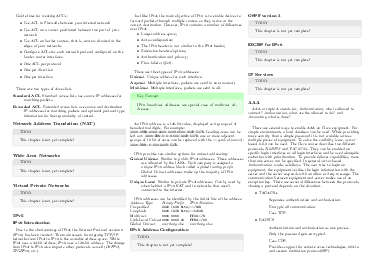
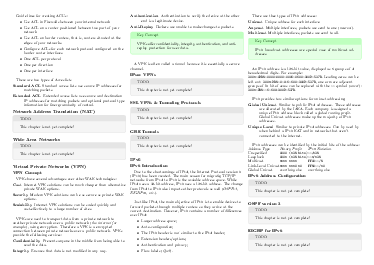
Added initial VPN chapter

diff --git a/summary.tex b/summary.tex
@@ -461,10 +461,38 @@ There are two types of Acces lists
 	This chapter is not yet complete!
 \end{textbox}
 
-\subsection{Virtual Private Networks}
-\begin{textbox}{gray}{TODO}
-	This chapter is not yet complete!
+\subsection{Virtual Private Networks (VPN)}
+\subsubsection{VPN Concept}
+\paragraph{}VPNs have several advantages over other WAN technologies:
+\begin{description}
+	\item[Cost] Internet VPN solutions can be much cheaper than alternative private WAN options.
+	\item[Security] Modern VPN solutions can be as secure as private WAN options.
+	\item[Scalability] Internet VPN solutions can be scaled quickly and cost-effectively to a large number of sites.
+\end{description}
+\paragraph{}VPNs are used to transport data from a private network to another private network over a public network (\textit{the internet for example}), using encryption. Therefore a VPN is a encrypted connection between private networks over a public network. VPNs provide the following services:
+\begin{description}
+	\item[Confidentiality] Prevents anyone in the middle from being able to read the data.
+	\item[Integrity] Ensures that data is not modified in any way.
+	\item[Authentication] Authentication to verify the device at the other end is a legitimate device.
+	\item[Anti-Replay] Hackers are unable to make changes to packets.
+\end{description}
+\begin{textbox}{green}{Key Concept}
+	VPNs offer confidentiality, integrity, authentication, and anti-replay protection for user data.
 \end{textbox}
+\paragraph{}A VPN is often called a \textit{tunnel} because it is essentially a secure channel.
+
+\subsubsection{IPsec VPNs}
+	\begin{textbox}{gray}{TODO}
+		This chapter is not yet complete!
+	\end{textbox}
+\subsubsection{SSL VPNs \& Tunneling Protocols}
+	\begin{textbox}{gray}{TODO}
+		This chapter is not yet complete!
+	\end{textbox}
+\subsubsection{GRE Tunnels}
+	\begin{textbox}{gray}{TODO}
+		This chapter is not yet complete!
+	\end{textbox}
 
 \subsection{IPv6}
 \subsubsection{IPv6 Introduction}
